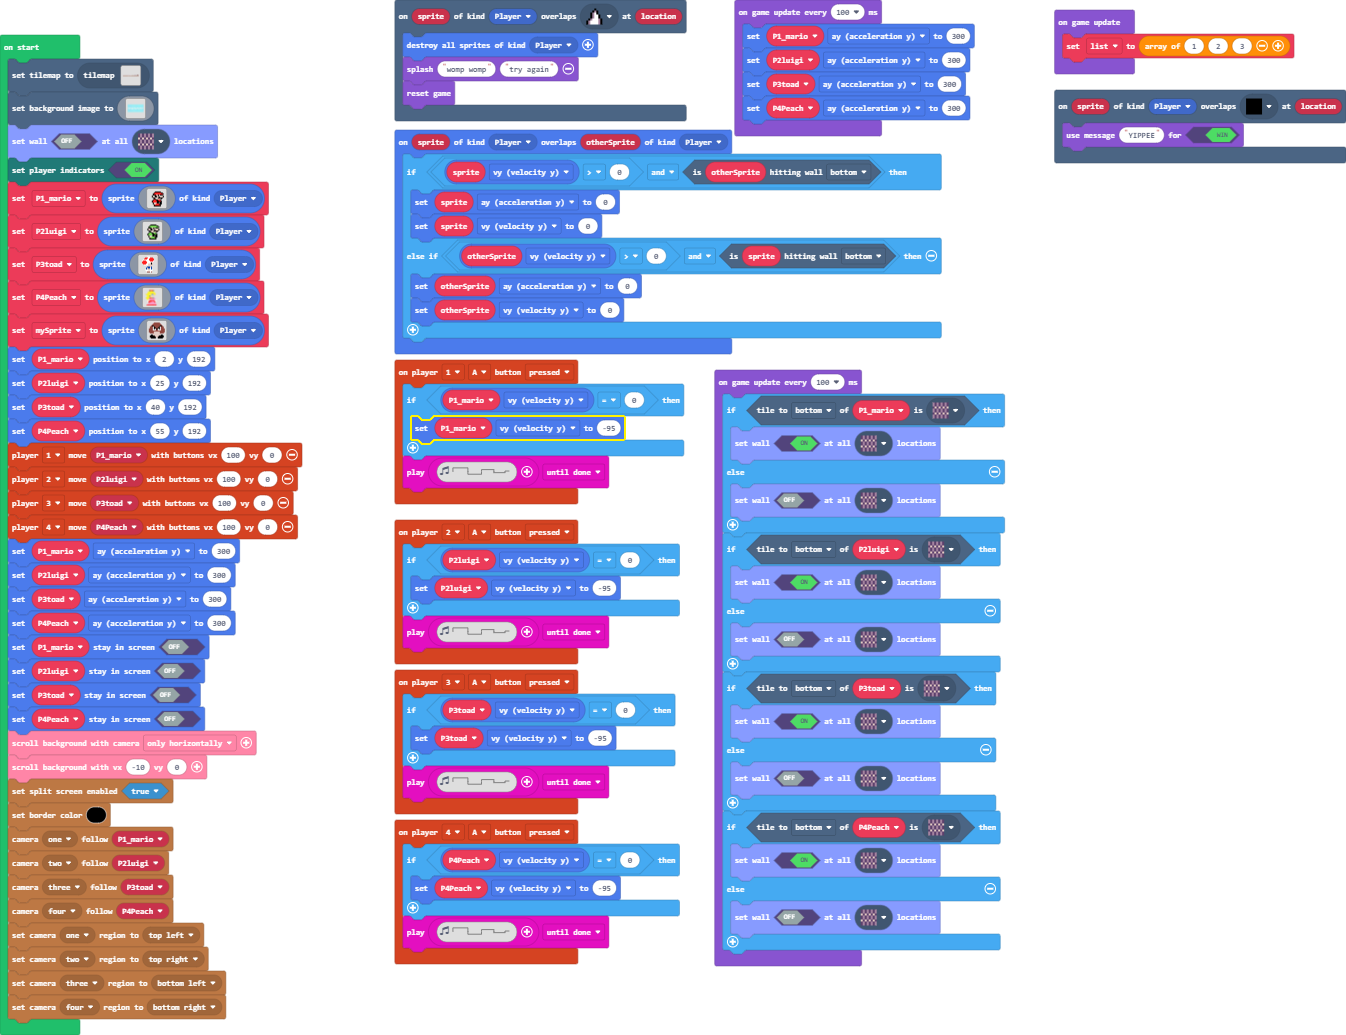
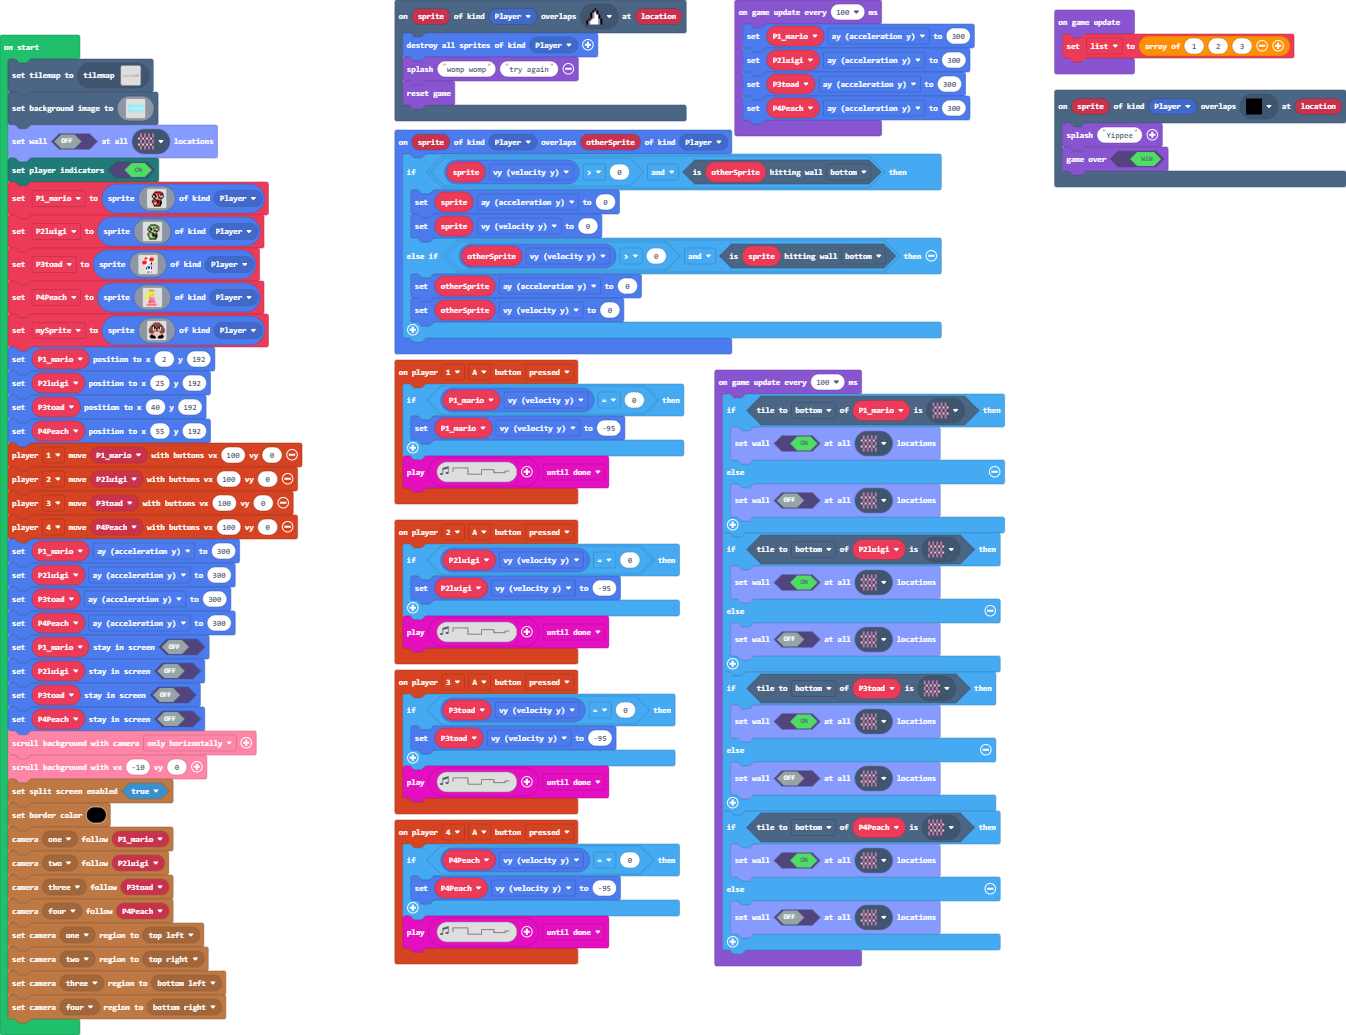
Update main.blocks, main.ts

Changed region(s): [[0.7801, 0.0928, 1.0, 0.1855], [0.4368, 0.4019, 0.4681, 0.4329], [0.312, 0.4019, 0.3432, 0.4329]]

diff --git a/main.ts b/main.ts
@@ -10,7 +10,8 @@ scene.onOverlapTile(SpriteKind.Player, assets.tile`spike`, function (sprite, loc
     game.reset()
 })
 scene.onOverlapTile(SpriteKind.Player, assets.tile`myTile8`, function (sprite, location) {
-    game.setGameOverMessage(true, "YIPPEE")
+    game.splash("Yippee")
+    game.gameOver(true)
 })
 sprites.onOverlap(SpriteKind.Player, SpriteKind.Player, function (sprite, otherSprite) {
     if (sprite.vy > 0 && otherSprite.isHittingTile(CollisionDirection.Bottom)) {
